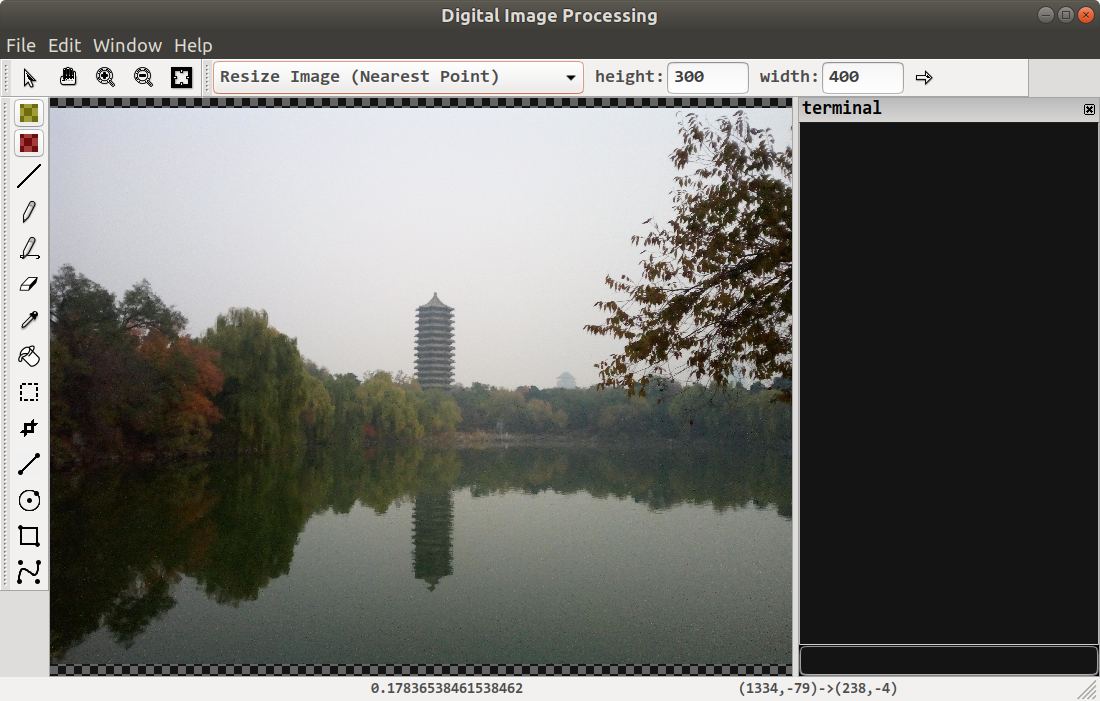
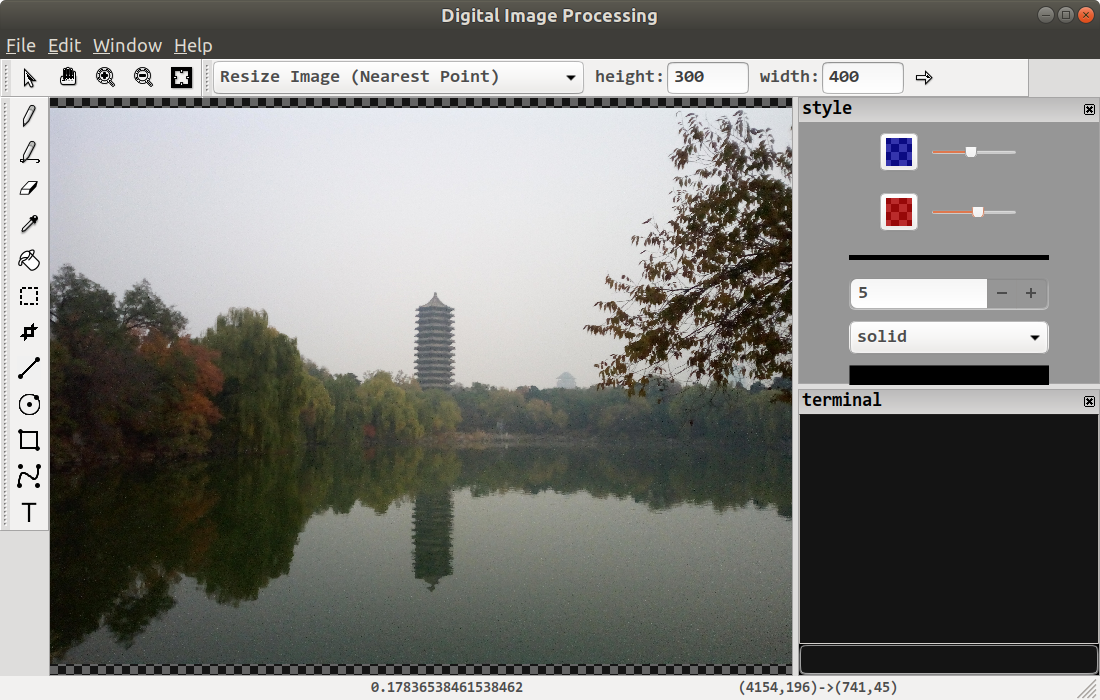
Write functions to draw text.

diff --git a/app/main.py b/app/main.py
@@ -43,7 +43,6 @@ class dialog_new(wx.Dialog):
 		button_ok = wx.Button(panel_base, wx.ID_OK , label = "OK");
 		sizer_button.Add(button_ok, 0, wx.ALL | wx.EXPAND, 5);
 
-
 class button_color(wx.BitmapButton):
 	def __init__(
 		self, parent, id = -1,
@@ -181,6 +180,10 @@ class panel_style(wx.lib.scrolledpanel.ScrolledPanel):
 		self.choice_brush.Bind(wx.EVT_CHOICE, self.on_choice_brush);
 		sizer_base.Add(self.choice_brush, 0, wx.ALL | wx.ALIGN_CENTER, 5);
 
+		self.fontctrl = wx.FontPickerCtrl(self, size = (200, -1));
+		sizer_base.Add(self.fontctrl, 0, wx.ALL | wx.ALIGN_CENTER, 5);
+		self.fontctrl.Bind(wx.EVT_FONTPICKER_CHANGED, self.on_fontctrl);
+
 		self.SetAutoLayout(1);
 		self.SetupScrolling();
 
@@ -244,6 +247,9 @@ class panel_style(wx.lib.scrolledpanel.ScrolledPanel):
 		style = table_style[sel];
 		self.frame.panel_draw.style_brush = style;
 		self.panel_brush.set_style(style);
+
+	def on_fontctrl(self, event):
+		self.frame.panel_draw.font = self.fontctrl.GetSelectedFont();
 
 class panel_term(wx.Panel):
 	def __init__(self, parent, size = wx.DefaultSize):
@@ -586,6 +592,13 @@ class dipl_frame(wx.Frame):
 		);
 		self.Bind(wx.EVT_TOOL, self.on_draw, id = self.id_draw_curve);
 
+		self.id_draw_text = wx.NewId();
+		self.icon_text = wx.Image("../icon/draw_text.png");
+		tool_draw.AddTool(
+			self.id_draw_text, "text", self.icon_text.ConvertToBitmap(), shortHelp = "draw text"
+		);
+		self.Bind(wx.EVT_TOOL, self.on_draw_text, id = self.id_draw_text);
+
 		tool_draw.Realize();
 		self.manager.AddPane(
 			tool_draw, aui.AuiPaneInfo().
@@ -852,8 +865,14 @@ class dipl_frame(wx.Frame):
 		elif event_id == self.id_draw_circle:
 			status_draw = self.panel_draw.sd_circle
 		elif event_id == self.id_draw_curve:
-			status_draw = self.panel_draw.sd_curve
+			status_draw = self.panel_draw.sd_curve;
 		self.panel_draw.set_status(self.panel_draw.s_draw, status_draw);
+
+	def on_draw_text(self, event):
+		self.panel_draw.set_status(self.panel_draw.s_text);
+		dialog = wx.TextEntryDialog(self, "Text:", caption = "Draw Text", value = self.panel_draw.text);
+		if dialog.ShowModal() == wx.ID_OK:
+			self.panel_draw.text = dialog.GetValue();
 
 	def on_zoom_in(self, event):
 		self.panel_draw.set_status(self.panel_draw.s_zoom_in);

diff --git a/app/panel_draw.py b/app/panel_draw.py
@@ -28,8 +28,10 @@ class panel_draw(wx.Panel):
 		self.color_brush = wx.Colour(0, 0, 0);
 		self.style_pen = wx.PENSTYLE_SOLID;
 		self.style_brush = wx.BRUSHSTYLE_SOLID;
+		self.font = None;
 		self.pos = (0, 0);
 		self.pos_list = None;
+		self.text = "";
 
 		self.s_normal = 0;
 		self.s_grab = 1;
@@ -40,8 +42,9 @@ class panel_draw(wx.Panel):
 		self.s_bucket = 6;
 		self.s_selector = 7;
 		self.s_draw = 8;
-		self.s_zoom_in = 9;
-		self.s_zoom_out = 10;
+		self.s_text = 9;
+		self.s_zoom_in = 10;
+		self.s_zoom_out = 11;
 		self.status = self.s_normal;
 
 		self.sd_line = 0;
@@ -150,6 +153,8 @@ class panel_draw(wx.Panel):
 		elif status == self.s_draw:
 			self.SetCursor(self.frame.icon_selector);
 			self.pos_list = None;
+		elif status == self.s_text:
+			self.SetCursor(self.frame.icon_selector);
 		elif status == self.s_zoom_in:
 			self.SetCursor(self.frame.icon_zoom_in);
 		elif status == self.s_zoom_out:
@@ -217,6 +222,11 @@ class panel_draw(wx.Panel):
 				elif len(self.pos_list) <= 20:
 					self.pos_list.append(pos);
 			self.cache = self.img.view();
+		elif self.status == self.s_text:
+			pos = np.array(event.GetPosition())[::-1];
+			pos_img = (pos - self.img.pos) / self.img.scale;
+			self.img.draw_text(self.text, pos_img);
+			self.img.display();
 
 	def on_motion(self, event):
 		if self.img is None:

diff --git a/app/dimage.py b/app/dimage.py
@@ -285,6 +285,28 @@ class dimage:
 		data = bitmap2numpy(img)[:, :, 0];
 		self.alpha = (self.alpha + (255 - self.alpha) * data / 255).astype(np.int32);
 
+	def draw_text(self, text, pos):
+		self.push();
+
+		img = numpy2bitmap(self.data);
+		dc = wx.MemoryDC();
+		dc.SelectObject(img);
+		dc.SetTextForeground(self.panel.color_pen[:3]);
+		if not self.panel.font is None:
+			dc.SetFont(self.panel.font);
+		dc.DrawText(text, pos[::-1]);
+		self.data = bitmap2numpy(img);
+
+		img = numpy2bitmap(np.zeros(self.data.shape, dtype = np.int32));
+		dc = wx.MemoryDC();
+		dc.SelectObject(img);
+		dc.SetTextForeground(wx.Colour((self.panel.color_pen[3], ) * 3));
+		if not self.panel.font is None:
+			dc.SetFont(self.panel.font);
+		dc.DrawText(text, pos[::-1]);
+		data = bitmap2numpy(img)[:, :, 0];
+		self.alpha = (self.alpha + (255 - self.alpha) * data / 255).astype(np.int32);
+
 	def resize_near(self, size):
 		self.push();
 		result = np.empty((size[0], size[1], self.data.shape[2]), dtype = np.int32);
